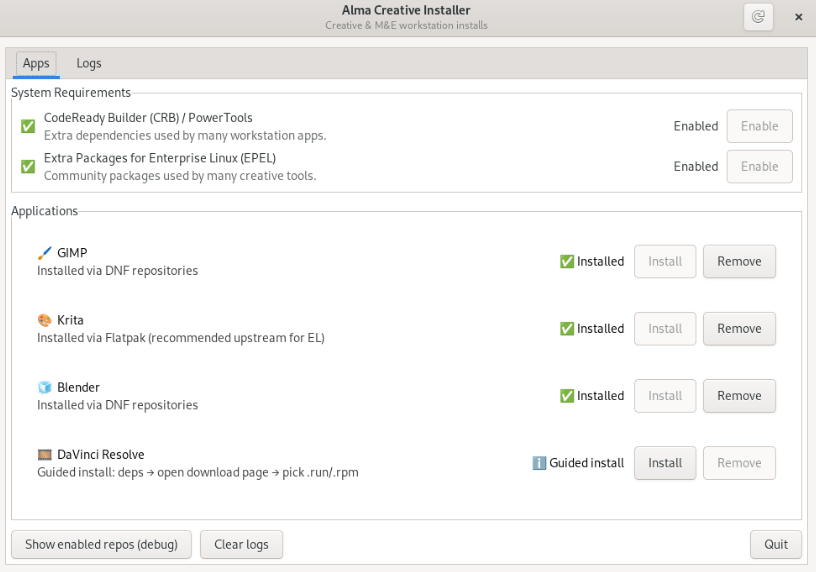
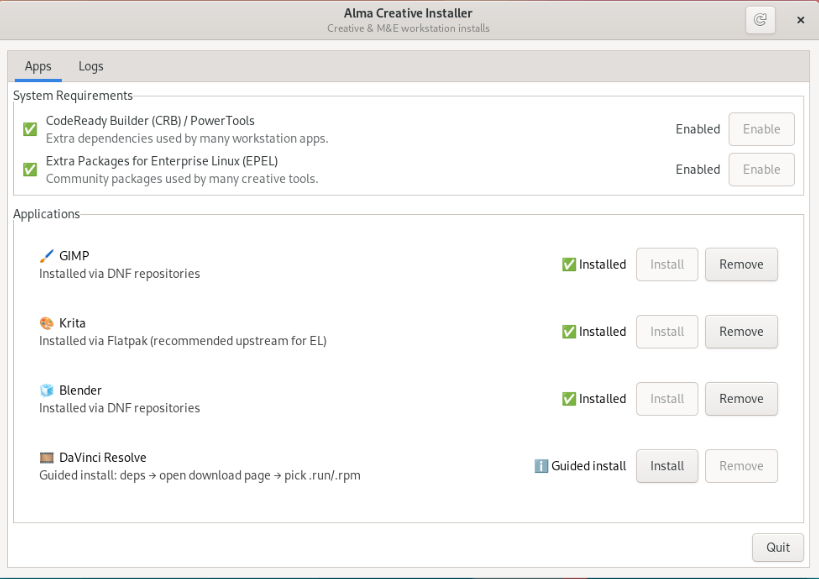
Added new screenshot of v1.0.3 and udpate README.md to reflect those new screenshot of the app.

diff --git a/README.md b/README.md
@@ -9,6 +9,9 @@ All software is installed using **supported system methods** only.
 ![AlmaLinux Creative Installer – main window](docs/screenshots/main.png)
 *Main window showing system requirements, install status, and guided workflows.*
 
+![AlmaLinux Creative Installer – logs window](docs/screenshots/logs.png)
+*Logs window showing the live log while installing, removing apps / repos. Able to show enabled repos for debug and clear log in that window with button*
+
 ---
 
 ## 🚀 Quick Start (Recommended)